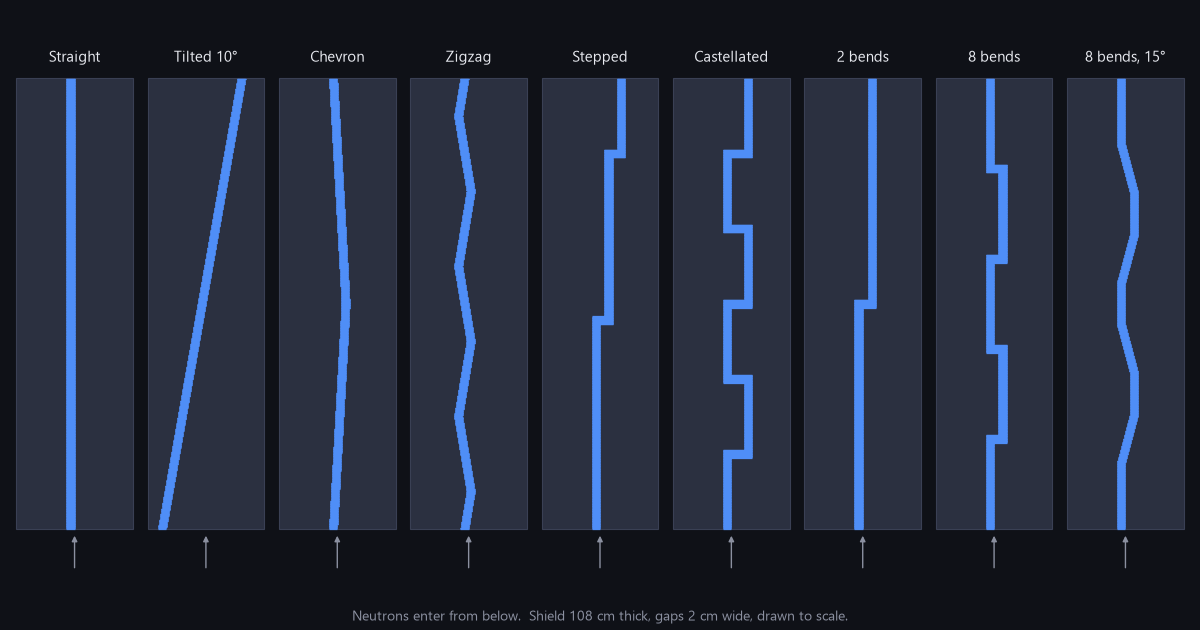
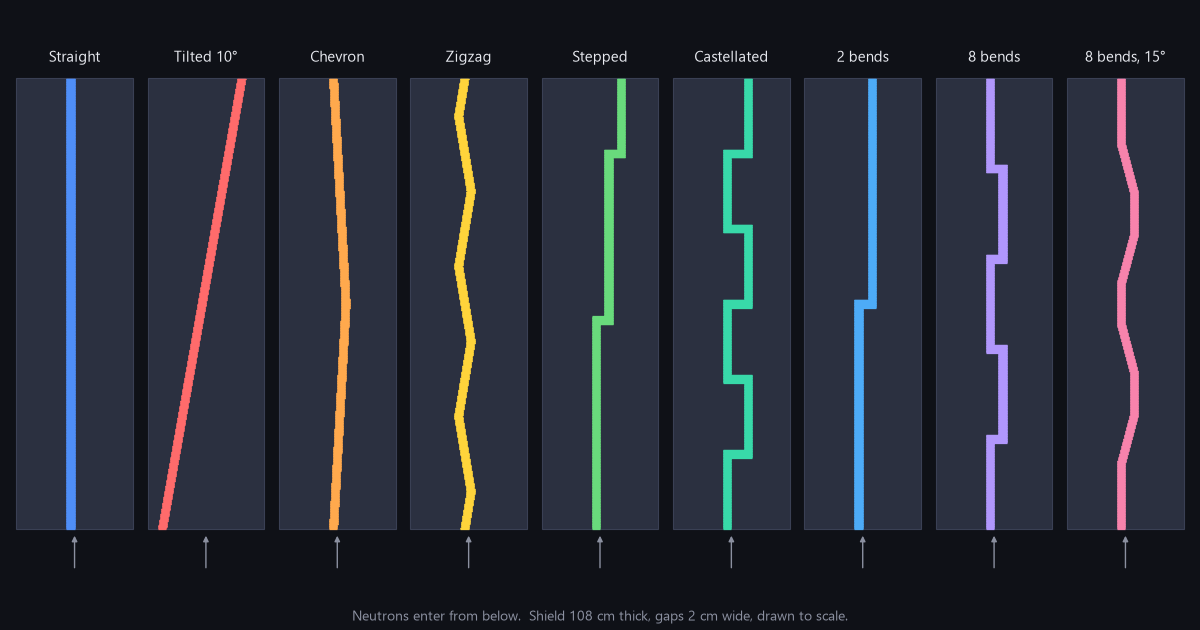
feat: one bright color per gap shape in What a Bend Buys figure

diff --git a/writing/what-a-bend-buys/index.html b/writing/what-a-bend-buys/index.html
@@ -239,7 +239,7 @@
     <p>Thirty-two gap shapes through the same 108 cm shield: straight, tilted, chevron, zigzag, stepped, castellated, and a family of "trapezoid" gaps that let me change one thing at a time. Width, number of bends, and how far past blocked the line of sight is. Twenty-seven runs on that family alone, plus replicates and checks.</p>
 
     <figure>
-      <img src="gap-shapes.png" width="1920" height="832" alt="Nine of the gap shapes, drawn to scale as tall grey shield slabs with a blue 2 cm gap through each: straight, tilted 10 degrees, chevron, zigzag, stepped, castellated, a trapezoid with 2 bends, one with 8 bends, and one with 8 bends at 15 degrees. Arrows below each show neutrons entering from the bottom.">
+      <img src="gap-shapes.png?v=2" width="1920" height="832" alt="Nine of the gap shapes, drawn to scale as tall grey shield slabs with a 2 cm gap through each, one bright color per shape: straight, tilted 10 degrees, chevron, zigzag, stepped, castellated, a trapezoid with 2 bends, one with 8 bends, and one with 8 bends at 15 degrees. Arrows below each show neutrons entering from the bottom.">
       <figcaption>Nine of the 32 shapes, drawn to scale from the geometry code that ran them. Neutrons enter from below.</figcaption>
     </figure>
 
